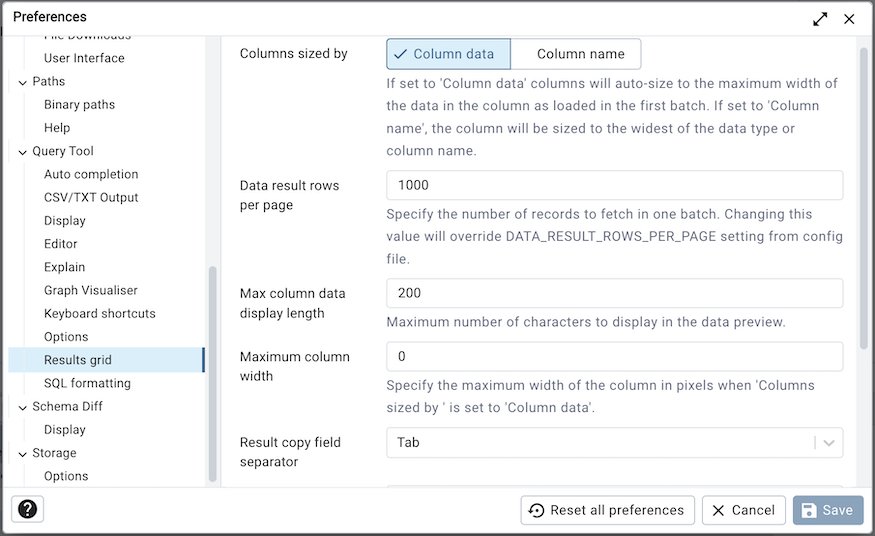
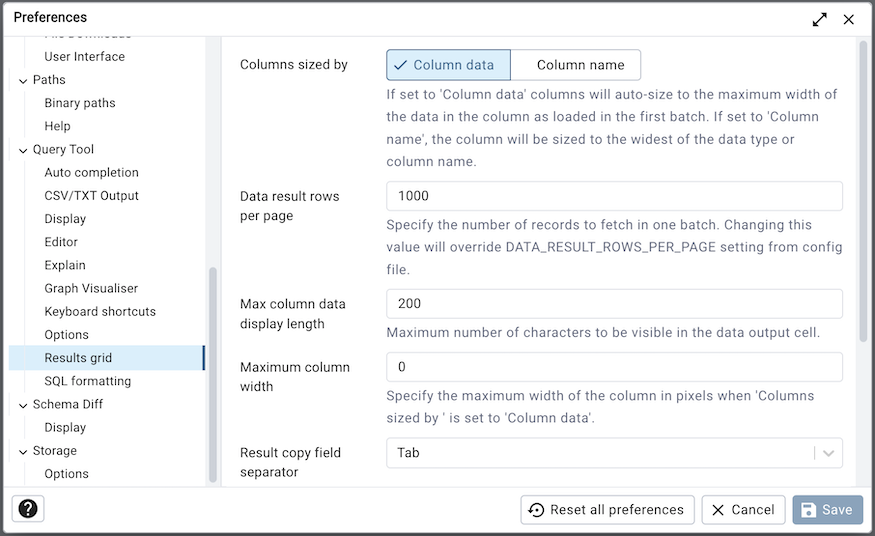
Fixed CSS issue found during testing of issue 6510

diff --git a/web/pgadmin/tools/sqleditor/static/js/components/QueryToolDataGrid/Editors.jsx b/web/pgadmin/tools/sqleditor/static/js/components/QueryToolDataGrid/Editors.jsx
@@ -89,8 +89,8 @@ const StyledEditorDiv = styled(Box)(({ theme }) => ({
     padding: '0.25rem',
     '& .jsoneditor-div': {
       fontSize: '12px',
-      minWidth: '525px',
-      minHeight: '300px',
+      minWidth: '200px',
+      minHeight: '200px',
       ...theme.mixins.panelBorder.all,
       outline: 0,
       resize: 'both',
@@ -102,7 +102,7 @@ const StyledEditorDiv = styled(Box)(({ theme }) => ({
   },
 }));
 
-const ResizableDiv = ({columnIndex, children, ...otherProps}) => {
+const ResizableDiv = ({columnIndex, children, resizeKey, defaultSize, ...otherProps}) => {
 
   const editorRef = React.useRef(null);
   const {getCellElement} = useContext(RowInfoContext);
@@ -124,11 +124,24 @@ const ResizableDiv = ({columnIndex, children, ...otherProps}) => {
       if (box.right > innerWidth) {
         editorRef.current.firstChild.style.width = `${currentWidth - widthDiff - 20}px`;
       }
+      // logic to save the height and width of the editor
+      if (currentHeight || currentWidth) {
+        window.resizeKeys = window.resizeKeys || {};
+        window.resizeKeys[resizeKey] = {height: editorRef.current.firstChild.style.height, width: editorRef.current.firstChild.style.width};
+      }
+
     };
 
     editorRef.current.addEventListener('mousedown', () => {
       document.addEventListener('mouseup', resizeEditor, {once: true});
     });
+    // Fetch the saved height and width from window object
+    editorRef.current.firstChild.style.height = window.resizeKeys?.[resizeKey]?.height || defaultSize.height;
+    editorRef.current.firstChild.style.width = window.resizeKeys?.[resizeKey]?.width || defaultSize.width;
+
+    // set initial position of editor and resize if it goes beyond visible area.
+    setEditorPosition(getCellElement(columnIndex), editorRef.current, '.rdg', 12);
+    resizeEditor();
 
     return () => document.removeEventListener('mouseup', resizeEditor);
 
@@ -137,7 +150,6 @@ const ResizableDiv = ({columnIndex, children, ...otherProps}) => {
   return (
     <StyledEditorDiv ref={(ele)=>{
       editorRef.current = ele;
-      setEditorPosition(getCellElement(columnIndex), ele, '.rdg', 12);
     }} {...otherProps}>
       {children}
     </StyledEditorDiv>
@@ -146,7 +158,9 @@ const ResizableDiv = ({columnIndex, children, ...otherProps}) => {
 ResizableDiv.displayName = 'ResizableDiv';
 ResizableDiv.propTypes = {
   children: CustomPropTypes.children,
-  columnIndex: PropTypes.number
+  columnIndex: PropTypes.number,
+  resizeKey: PropTypes.string,
+  defaultSize: PropTypes.object,
 };
 
 function autoFocusAndSelect(input) {
@@ -249,7 +263,7 @@ export function TextEditor({row, column, onRowChange, onClose}) {
   return (
     <Portal container={document.body}>
       <ResizableDiv columnIndex={column.idx}
-        className='Editors-textEditor' data-label="pg-editor" onKeyDown={suppressEnterKey} >
+        className='Editors-textEditor' data-label="pg-editor" resizeKey={'text'} defaultSize={{height:'80px', width:'250px'}} onKeyDown={suppressEnterKey} >
         <textarea ref={autoFocusAndSelect} className='Editors-textarea' value={localVal} onChange={onChange} onKeyDown={onkeydown} />
         <Box display="flex" justifyContent="flex-end">
           <DefaultButton startIcon={<CloseIcon />} onClick={()=>onClose(false)} size="small">
@@ -436,7 +450,7 @@ export function JsonTextEditor({row, column, onRowChange, onClose}) {
   return (
     <Portal container={document.body}>
       <ResizableDiv columnIndex={column.idx}
-        className='Editors-jsonEditor' data-label="pg-editor" onKeyDown={suppressEnterKey} >
+        className='Editors-jsonEditor' data-label="pg-editor" resizeKey={'json'} defaultSize={{height:'500px', width:'600px'}} onKeyDown={suppressEnterKey} >
         <JsonEditor
           setJsonEditorSize={setJsonEditorSize}
           value={localVal}

diff --git a/web/pgadmin/static/js/Theme/overrides/jsoneditor.override.js b/web/pgadmin/static/js/Theme/overrides/jsoneditor.override.js
@@ -165,16 +165,23 @@ export default function jsonEditorOverride(theme) {
       '--jse-svelte-select-background': theme.palette.background.default,
       '--list-background': theme.palette.background.default,
       '--item-is-active-color': theme.palette.primary.contrastText,
-      '--item-hover-bg': theme.palette.primary.hoverMain,
+      '--jse-hover-background-color': theme.palette.primary.hoverMain,
     },
-
+    '.svelte-select .svelte-select-list .list-item:hover': {
+      '--item-hover-bg': theme.palette.primary.main,
+      '--item-hover-color': theme.palette.primary.contrastText,
+    },
     /* Body */
     '.jse-modal-contents': {
       '--jse-modal-background': theme.palette.background.default,
     },
 
     '.jse-transform-modal-inner textarea': {
-      ' --jse-input-background': theme.palette.background.default,
+      '--jse-input-background': theme.palette.background.default,
+    },
+
+    '.jse-filter-value': {
+      '--jse-input-background': theme.palette.background.default,
     },
 
     '.jse-contextmenu': {
@@ -200,7 +207,37 @@ export default function jsonEditorOverride(theme) {
       '--jse-value-color-boolean': 'darkorange',
       '--jse-value-color-string': theme.otherVars.editor.string,
       '--jse-value-color-null': theme.otherVars.editor.keyword,
-      '--jse-delimiter-color': theme.palette.text.primary
+      '--jse-delimiter-color': theme.palette.text.primary,
+      '--jse-font-family-mono': theme.typography.fontFamilySourceCode
+    },
+    '.jse-text-mode .jse-contents .cm-editor .cm-selectionBackground': {
+      '--jse-selection-background-color': theme.otherVars.editor.selectionBg,
+    },
+
+    '.jse-main:not(.jse-focus)': {
+      '--jse-selection-background-inactive-color': theme.otherVars.editor.selectionBg,
+    },
+
+    '.jse-table-mode .jse-contents table.jse-table-main .jse-table-row .jse-table-cell.jse-table-cell-header, .jse-table-mode.jse-contents table.jse-table-main .jse-table-row .jse-table-cell.jse-table-cell-gutter': {
+      '--jse-table-header-background': theme.otherVars.editor.guttersBg,
+      '--jse-text-readonly': theme.otherVars.editor.guttersFg,
+    },
+
+    '.jse-table-mode .jse-contents table.jse-table-main .jse-table-row .jse-table-cell.jse-table-cell-gutter': {
+      '--jse-table-header-background': theme.otherVars.editor.guttersBg,
+      '--jse-text-readonly': theme.otherVars.editor.guttersFg,
+    },
+
+    '.jse-column-header:hover': {
+      '--jse-table-header-background-highlight': theme.palette.primary.hoverMain,
+    },
+
+    '.jse-json-node.jse-selected-value .jse-value-outer, .jse-json-node.jse-selected-value .jse-meta, .jse-json-node.jse-selected-value .jse-items .jse-header, .jse-json-node.jse-selected-value .jse-items .jse-contents, .jse-json-node.jse-selected-value .jse-props .jse-header, .jse-json-node.jse-selected-value .jse-props .jse-contents, .jse-json-node.jse-selected-value .jse-footer': {
+      '--jse-selection-background-color': theme.otherVars.editor.selectionBg,
+    },
+    
+    '.jse-json-node.jse-selected .jse-header, .jse-json-node.jse-selected .jse-contents, .jse-json-node.jse-selected .jse-footer': {
+      '--jse-selection-background-color': theme.otherVars.editor.selectionBg,
     }
   };
 }

diff --git a/web/pgadmin/tools/sqleditor/utils/query_tool_preferences.py b/web/pgadmin/tools/sqleditor/utils/query_tool_preferences.py
@@ -379,8 +379,8 @@ def register_query_tool_preferences(self):
         'Results_grid', 'max_column_data_display_length',
         gettext("Max column data display length"), 'integer',
         200, category_label=PREF_LABEL_RESULTS_GRID,
-        help_str=gettext('Maximum number of characters to display in the'
-                         ' data preview.')
+        help_str=gettext('Maximum number of characters to be visible in the'
+                         ' data output cell.')
     )
 
     self.sql_font_size = self.preference.register(

diff --git a/docs/en_US/preferences.rst b/docs/en_US/preferences.rst
@@ -543,8 +543,8 @@ preferences for copied data.
 * Specify the number of records to fetch in one batch. Changing this value will
   override DATA_RESULT_ROWS_PER_PAGE setting from config file.
 * Use the *Max column data display length* to specify the maximum number of
-  characters to display in a cell. If the data is larger than this value, it
-  will be truncated.
+  characters to be visible in the data output cell. If the data is larger 
+  than this value, it will be truncated.
 * Use the *Result copy field separator* drop-down listbox to select the field
   separator for copied data.
 * Use the *Result copy quote character* drop-down listbox to select the quote
